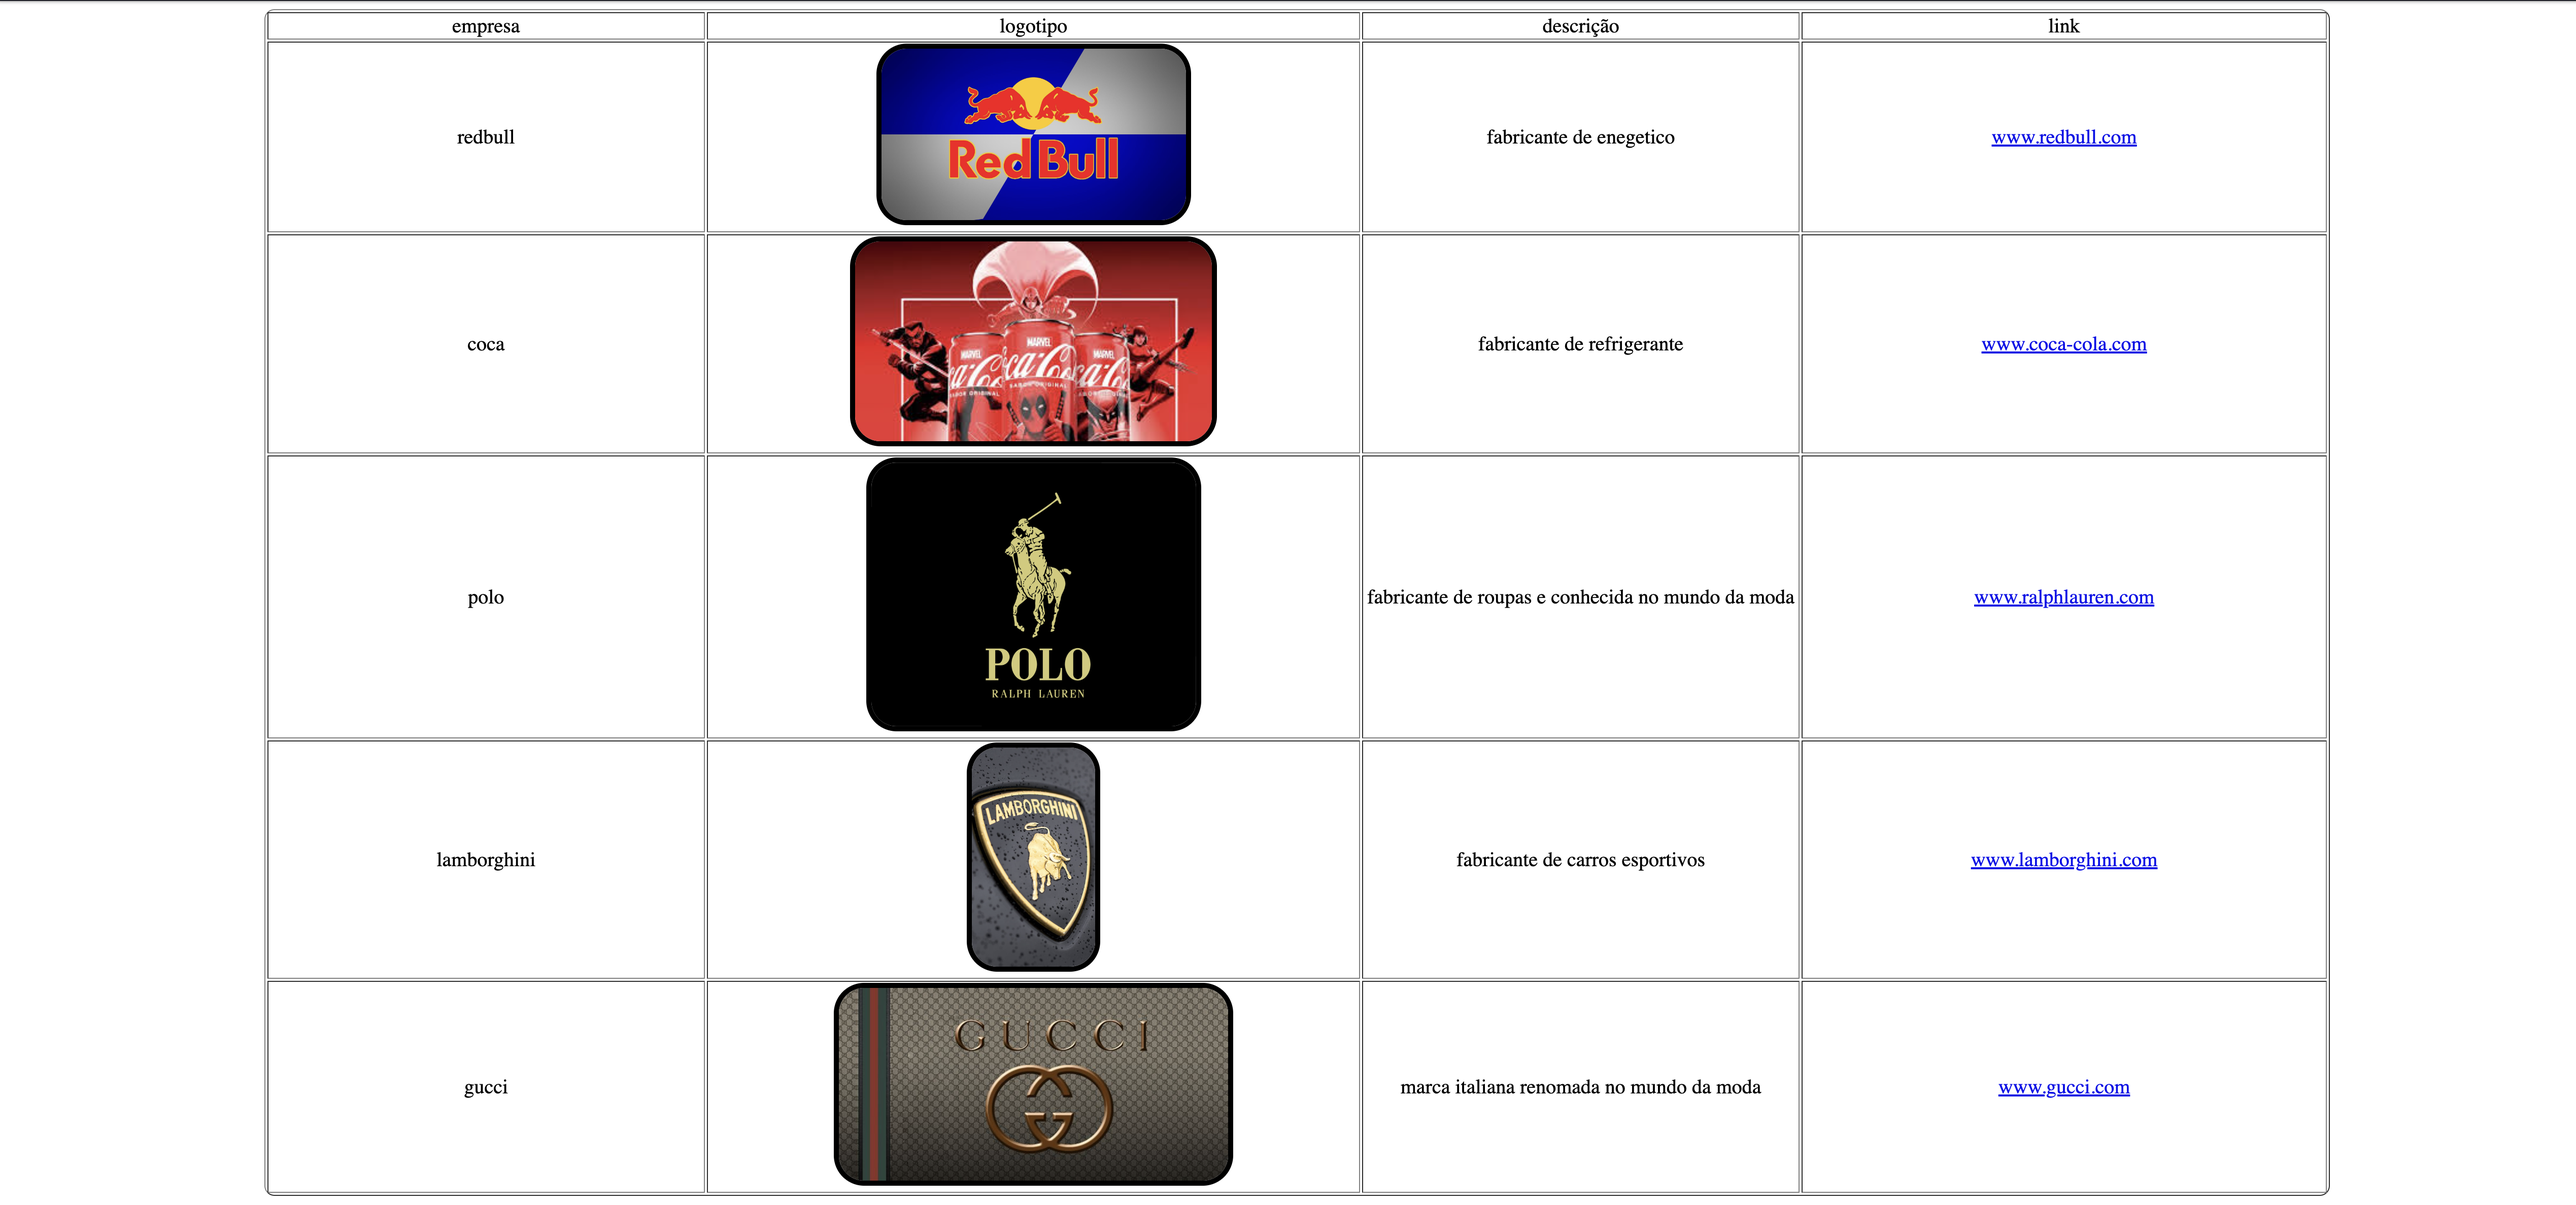
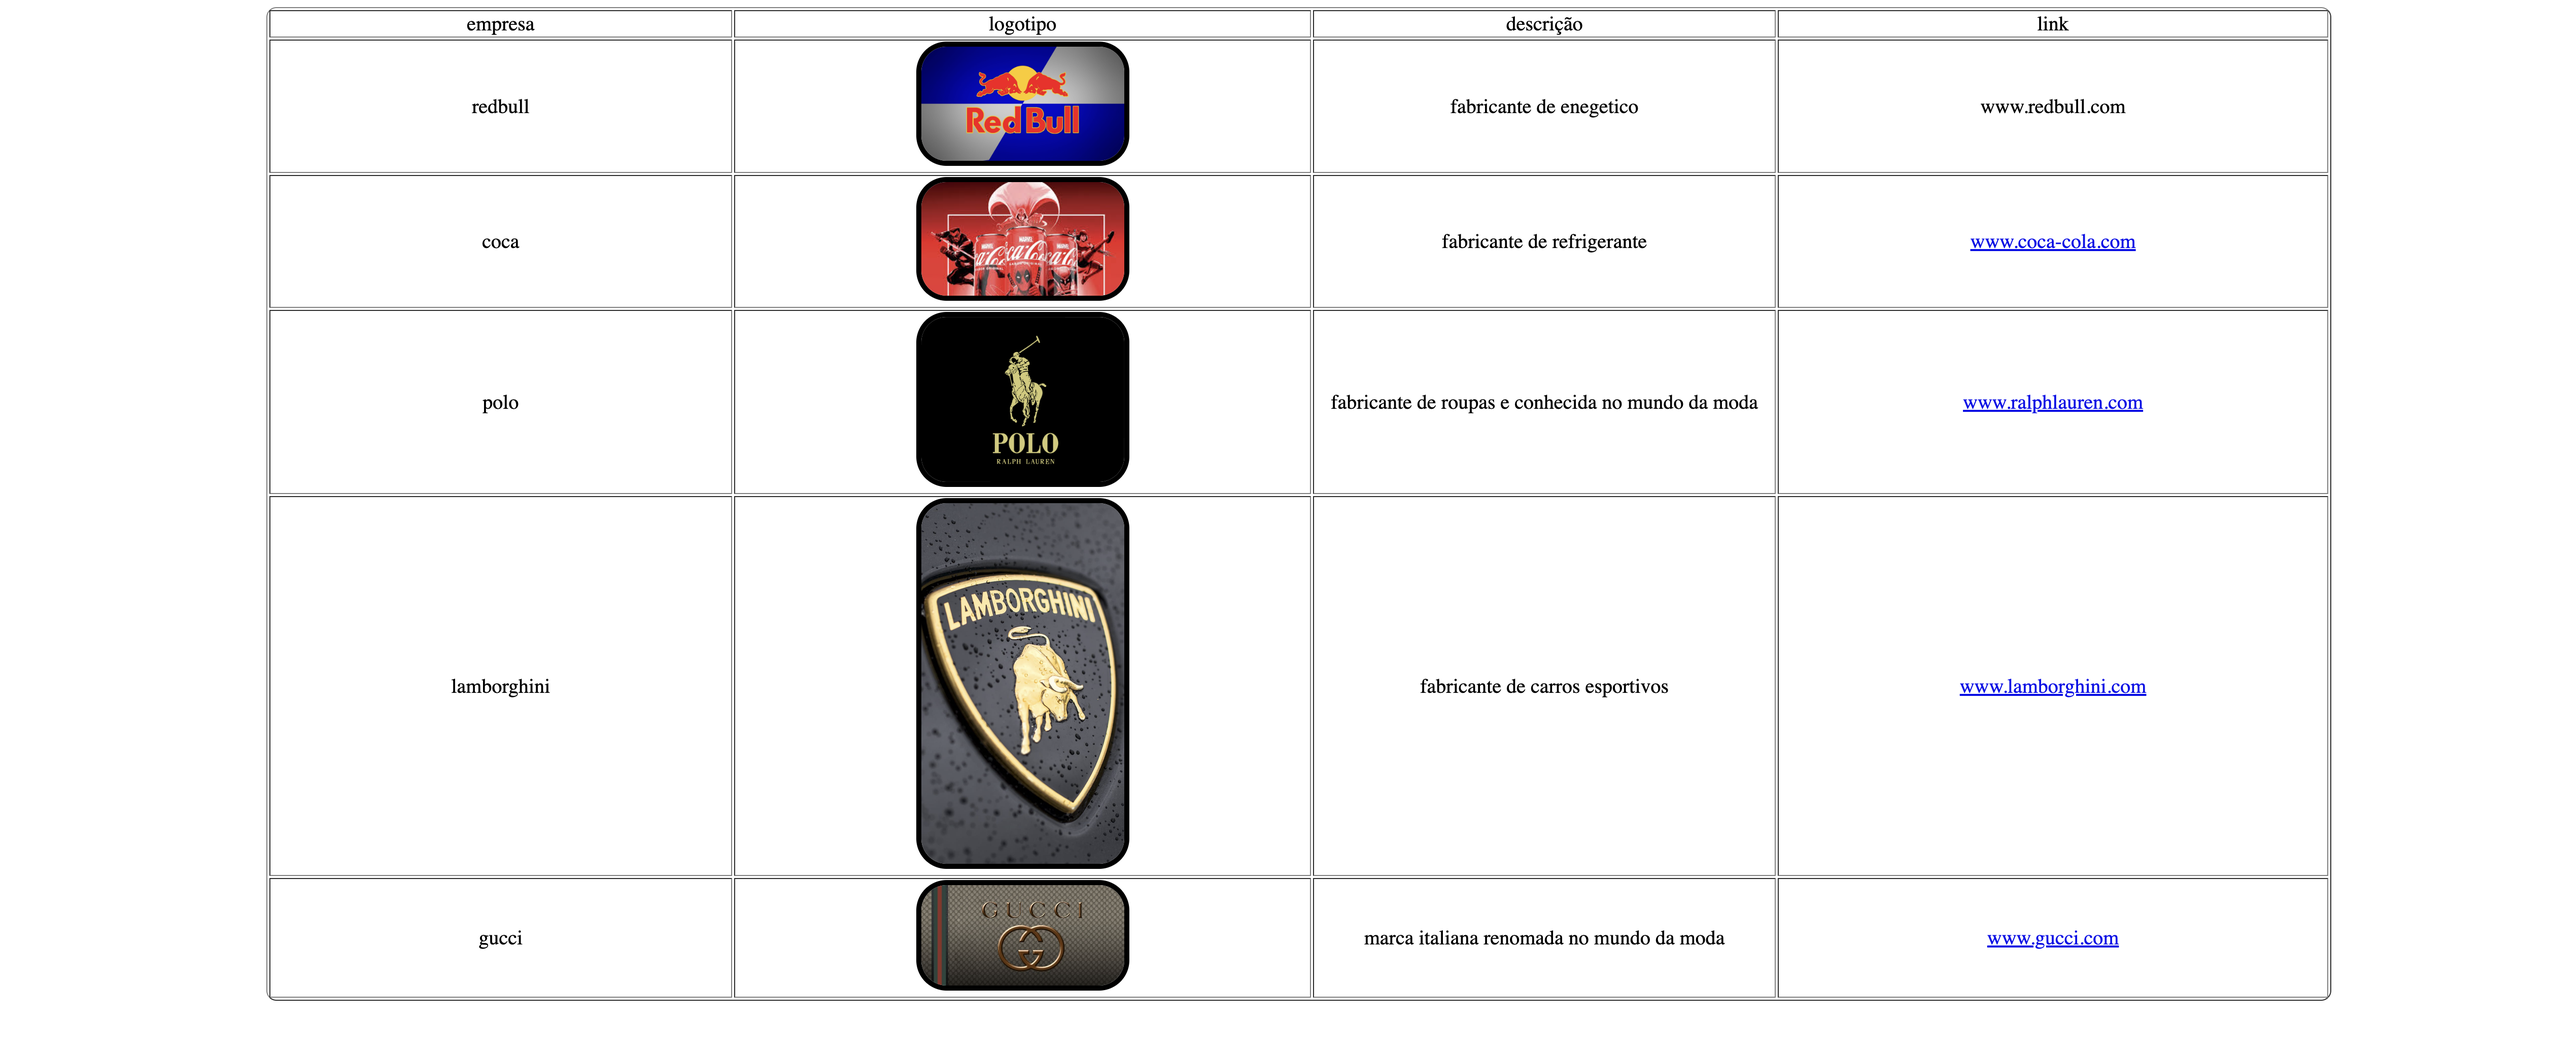
site pronto

diff --git a/index.html b/index.html
@@ -1,0 +1,55 @@
+<!DOCTYPE html>
+<html lang="en">
+<head>
+    <meta charset="UTF-8">
+    <meta name="viewport" content="width=device-width, initial-scale=1.0">
+    <link rel="stylesheet" href="style.css">
+    <title>Document</title>
+</head>
+<body>
+    <table border='1'>
+        <tr>
+            <td>empresa</td>
+            <td>logotipo</td>
+            <td>descrição</td>
+            <td>link</td>
+    
+        <tr>
+            <td>redbull</td>
+            <td> <img  class='foto' src=https://labicicleta.net/escuela/wp-content/uploads/Red-Bull.jpg></td>
+    
+            <td>fabricante de enegetico</td>
+            <td><a href='https://www.redbull.com/br-pt'></a>www.redbull.com</td>
+        </tr>
+        <tr>
+            <td>coca</td>
+            <td> <img class="foto"
+                    src='https://encrypted-tbn0.gstatic.com/images?q=tbn:ANd9GcR6zuo-c-_rDsg7aYlCb5ZsPsM1QLnA9MMc4Q&s'></td>
+            <td>fabricante de refrigerante </td>
+            <td><a href='https://www.coca-cola.com.br/'>www.coca-cola.com</td>
+        </tr>
+        <tr>
+            <td>polo</td>
+            <td> <img class="foto"
+                    src=https://static.vecteezy.com/system/resources/previews/023/871/566/original/polo-ralph-lauren-brand-logo-gold-symbol-clothes-design-icon-abstract-illustration-with-black-background-free-vector.jpg>
+            </td>
+            <td>fabricante de roupas e conhecida no mundo da moda</td>
+            <td><a href='https://www.ralphlauren.com'>www.ralphlauren.com</td>
+        </tr>
+        <tr>
+            <td>lamborghini </td>
+            <td> <img class="foto" 
+                    src="https://w0.peakpx.com/wallpaper/964/809/HD-wallpaper-lamborghini-logo-black-cars-love.jpg"></td>
+            <td> fabricante de carros esportivos </td>
+            <td><a href='https://www.lamborghini.com/en-en'>www.lamborghini.com</td>
+        </tr>
+        <tr>
+            <td>gucci</td>
+            <td> <img class="foto" src="https://i.pinimg.com/736x/a3/32/ac/a332acd30a1dd50cf99a53b669f63b80.jpg"></td>
+            <td>marca italiana renomada no mundo da moda </td>
+            <td><a href='https://www.gucci.com/'>www.gucci.com</td>
+</body>
+</html>
+
+
+

diff --git a/style.css b/style.css
@@ -1,0 +1,27 @@
+tr{
+    text-aling: center;
+    font-size: 25px
+  }
+td{
+    font-size: 20px;
+    width: 5%;
+  }
+table{
+    border-radius: 10px;
+    text-align: center;
+    width:80%;
+    margin: 0 auto;
+     
+     
+  }
+  
+  
+  
+
+
+  .foto {
+    max-width: 200px;
+    border: 5px solid;
+    border-radius:30px;
+    
+  }
